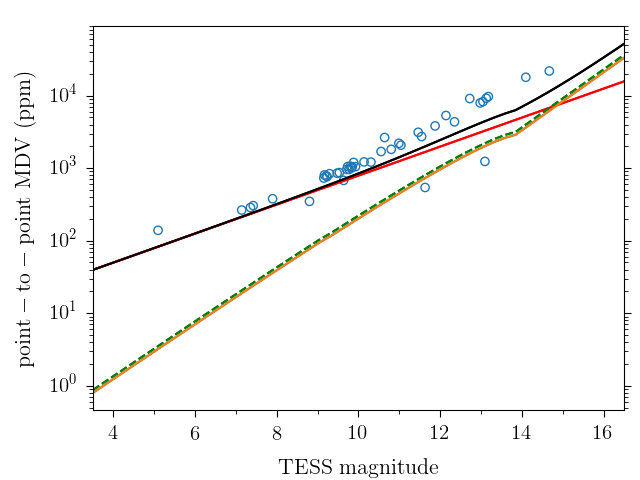
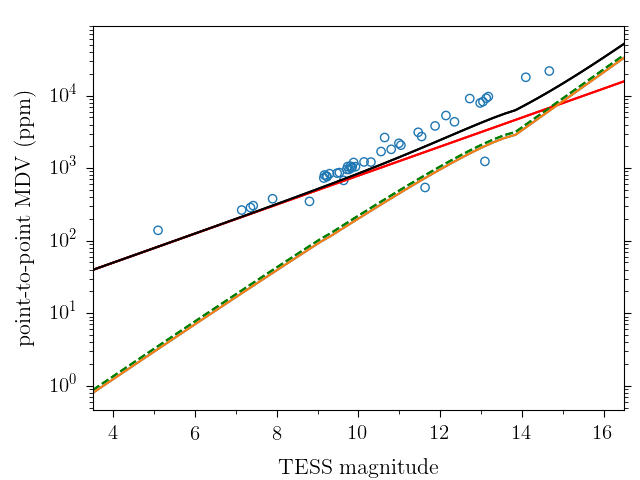
More bugfixes

Changed region(s): [[0.0, 0.1562, 0.0625, 0.7812]]

diff --git a/release_plots.py b/release_plots.py
@@ -320,19 +320,12 @@ def plot_onehour_noise(data_paths, sector, cad=1800, sysnoise=0):
 	ax.xaxis.set_minor_locator(MultipleLocator(1))
 	ax.tick_params(direction='out', which='both', pad=5, length=3)
 	ax.tick_params(which='major', pad=6, length=5,labelsize='15')
-
-	###########
-	ax2.set_xlabel('TESS magnitude', fontsize=16, labelpad=10)
-	ax2.set_ylabel('point-to-point MDV (ppm)', fontsize=16, labelpad=10)
-	ax.tick_params(direction='out', which='both', pad=5, length=3)
-	ax.tick_params(which='major', pad=6, length=5,labelsize='15')
-
 	ax.yaxis.set_ticks_position('both')
 
 	###########
-	ax2.set_xlabel('TESS magnitude', fontsize=16, labelpad=10)
-	ax2.set_ylabel(r'$\rm point-to-point\,\, MDV\,\, (ppm)$', fontsize=16, labelpad=10)
 	ax2.set_xlim([3.5, 16.5])
+	ax2.set_xlabel('TESS magnitude', fontsize=16, labelpad=10)
+	ax2.set_ylabel('point-to-point MDV (ppm)', fontsize=16, labelpad=10)
 	ax2.set_yscale("log", nonposy='clip')
 	ax2.xaxis.set_major_locator(MultipleLocator(2))
 	ax2.xaxis.set_minor_locator(MultipleLocator(1))
@@ -417,23 +410,17 @@ def plot_mag_dist(data_path, sector):
 	# Add data values
 	files = np.array([os.path.join(data_path, f) for f in os.listdir(data_path) if f.endswith('.fits.gz')])
 
-	# Add data values
-	files = np.array([os.path.join(data_path, f) for f in os.listdir(data_path) if f.endswith('.fits.gz')])
-
 	tmag_vals_sc = np.array([])
 	tmag_vals_lc = np.array([])
-	for i, f in enumerate(files):
-		hdu = fits.open(f)
-		tmag = hdu[0].header['TESSMAG']
-		#time = hdu[1].data['TIME']
+	for f in files:
+		with fits.open(f) as hdu:
+			tmag = hdu[0].header['TESSMAG']
+			dt = hdu[1].header['TIMEDEL'] * 86400
 
-		dt = hdu[1].header['TIMEDEL'] * 86400
-
-		if dt < 1000:
-			tmag_vals_sc = np.append(tmag_vals_sc, tmag)
-		else:
-			tmag_vals_lc = np.append(tmag_vals_lc, tmag)
-
+			if dt < 1000:
+				tmag_vals_sc = np.append(tmag_vals_sc, tmag)
+			else:
+				tmag_vals_lc = np.append(tmag_vals_lc, tmag)
 
 	fig = plt.figure()
 	ax = fig.add_subplot(111)
